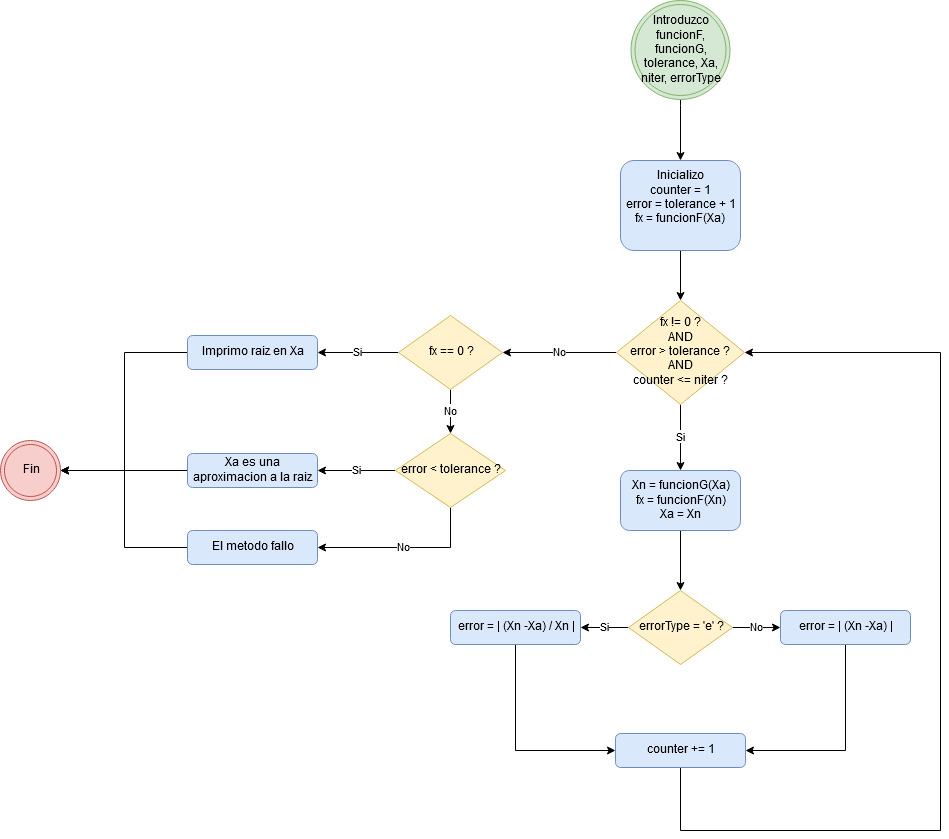
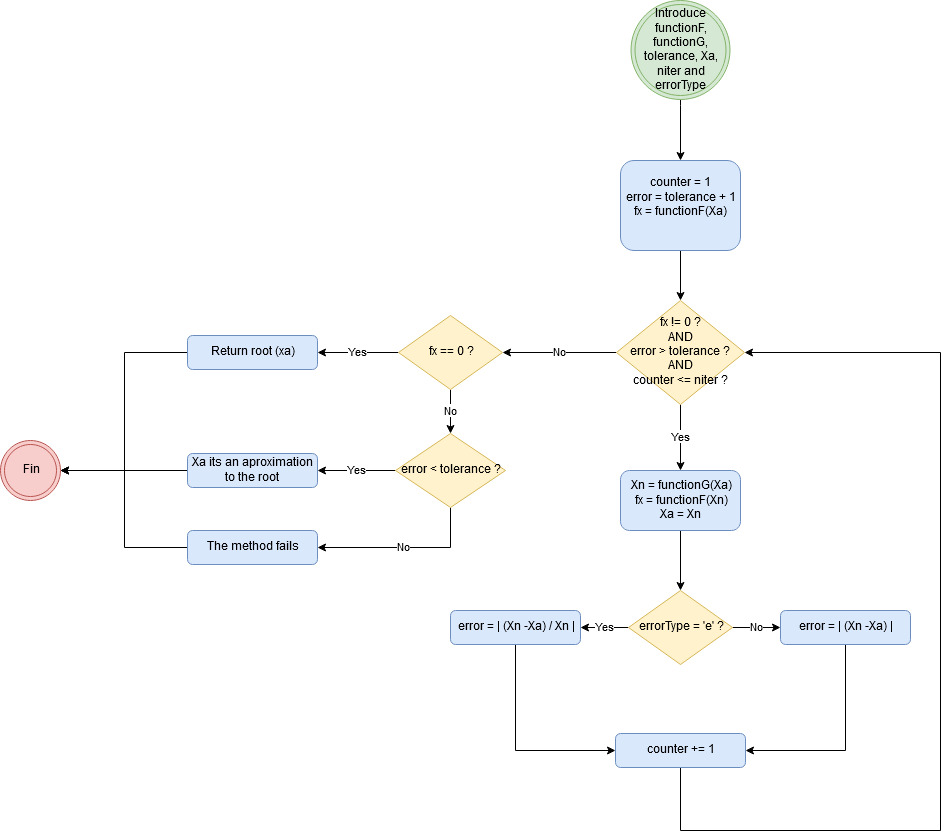
fixing methods and translating pseudocodes

diff --git a/metodos/metodosNumericos.js b/metodos/metodosNumericos.js
@@ -1,6 +1,4 @@
 const math = require('mathjs');
-// FIXME: corregir decimales
-// TODO: HACER QUE RETORNEN ALGUNA MIERDA!!!!
 // ============================================== METODOS CERRADOS ==============================================//
 
 let incrementalSearch = (funcion, initial_x, delta_x, iterations_n) => {
@@ -12,7 +10,7 @@ let incrementalSearch = (funcion, initial_x, delta_x, iterations_n) => {
   };
   let fx0 = code2.evaluate(scope);
 
-  if (fx0 === 0) console.log(`Raiz en ${scope.x}`);
+  if (fx0 === 0) console.log(`Root: ${scope.x}`);
   else {
     let intervals = [];
     var interval;
@@ -22,14 +20,19 @@ let incrementalSearch = (funcion, initial_x, delta_x, iterations_n) => {
       scope.x += delta_x;
       fx1 = code2.evaluate(scope);
       if (fx0 * fx1 < 0) {
-        console.log(`Raiz entre ${scope.x - delta_x} y ${scope.x}`);
+        console.log(`Interval: [${scope.x - delta_x}, ${scope.x}]`);
         interval = {
           a: [scope.x - delta_x, fx0],
           b: [scope.x, fx1]
         };
         intervals.push(interval);
-      } else if (fx0 === 0) console.log(`Raiz en ${scope.x - delta_x}`);
-      else if (fx1 === 0) console.log(`Raiz en ${scope.x}`);
+      } else if (fx0 === 0) {
+        console.log(`Root: ${scope.x - delta_x}`);
+        return scope.x - delta_x;
+      } else if (fx1 === 0) {
+        console.log(`Root: ${scope.x}`);
+        return scope.x;
+      }
       fx0 = fx1;
       counter++;
     }
@@ -37,14 +40,7 @@ let incrementalSearch = (funcion, initial_x, delta_x, iterations_n) => {
   }
 };
 
-let bisection = (
-  funcion,
-  xInferior,
-  xSuperior,
-  tolerance,
-  iterations_n,
-  tipoError
-) => {
+let bisection = (funcion, xInferior, xSuperior, tolerance, iterations_n) => {
   const code2 = math.parse(funcion).compile();
   let scope = {
     x: xInferior
@@ -52,45 +48,52 @@ let bisection = (
   let fxi = code2.evaluate(scope);
   scope.x = xSuperior;
   let fxs = code2.evaluate(scope);
-  if (fxi === 0) console.log(`Raiz en ${xInferior}`);
-  else if (fxs === 0) console.log(`Raiz en ${xSuperior}`);
-  else if (fxs * fxi < 0) {
+  if (fxi === 0) {
+    console.log(`Root: ${xInferior}`);
+    return xInferior;
+  } else if (fxs === 0) {
+    console.log(`Root: ${xSuperior}`);
+    return xSuperior;
+  } else if (fxs * fxi < 0) {
     let xMiddle = (xSuperior + xInferior) / 2;
-    let xMiddleAux = xMiddle;
-    var fxm;
+    scope.x = xMiddle;
+    let fxm = code2.evaluate(scope);
     let counter = 1;
     let error = tolerance + 1;
-    while (error > tolerance && counter <= iterations_n) {
-      xMiddle = (xSuperior + xInferior) / 2;
-      tipoError == 'e'
-        ? (error = math.abs((xMiddle - xMiddleAux) / xMiddle))
-        : (error = math.abs(xMiddle - xMiddleAux));
-      xMiddleAux = xMiddleAux;
-      scope.x = xMiddle;
-      fxm = code2.evaluate(scope);
-      console.log(counter, xInferior, xSuperior, xMiddle, fxm, error);
-      if (fxm === 0) console.log(`Raiz en ${xMiddle}`);
-      else if (fxi * fxm < 0) {
+    console.log(1, xInferior, xSuperior, xMiddle, fxm, 0);
+    while (error > tolerance && counter <= iterations_n && fxm != 0) {
+      if (fxi * fxm < 0) {
         xSuperior = xMiddle;
         fxs = fxm;
       } else {
         xInferior = xMiddle;
         fxi = fxm;
       }
+      let Xaux = xMiddle;
+      xMiddle = (xSuperior + xInferior) / 2;
+      scope.x = xMiddle;
+      fxm = code2.evaluate(scope);
+      error = math.abs(xMiddle - Xaux);
       counter += 1;
+      console.log(counter, xInferior, xSuperior, xMiddle, fxm, error);
     }
-    return xMiddle;
+
+    if (fxm == 0) {
+      console.log('Root:', xMiddle);
+      return xMiddle;
+    } else if (error < tolerance) {
+      console.log(
+        `${xMiddle} is an aproximation with tolerance = ${tolerance}`
+      );
+      return xMiddle;
+    } else {
+      console.log('Fail in', iterations_n, 'iterations');
+      return false;
+    }
   }
 };
 
-let fakeRule = (
-  funcion,
-  xInferior,
-  xSuperior,
-  tolerance,
-  iterations_n,
-  tipoError
-) => {
+let fakeRule = (funcion, xInferior, xSuperior, tolerance, iterations_n) => {
   const code2 = math.parse(funcion).compile();
   let scope = {
     x: xInferior
@@ -98,34 +101,48 @@ let fakeRule = (
   let fxi = code2.evaluate(scope);
   scope.x = xSuperior;
   let fxs = code2.evaluate(scope);
-  if (fxi === 0) console.log(`Raiz en ${xInferior}`);
-  else if (fxs === 0) console.log(`Raiz en ${xSuperior}`);
-  else if (fxs * fxi < 0) {
+  if (fxi === 0) {
+    console.log(`Root: ${xInferior}`);
+    return xInferior;
+  } else if (fxs === 0) {
+    console.log(`Root: ${xSuperior}`);
+    return xSuperior;
+  } else if (fxs * fxi < 0) {
     let xMiddle = xInferior - (fxi * (xSuperior - xInferior)) / (fxs - fxi);
-    let xMiddleAux = xMiddle;
-    var fxm;
+    scope.x = xMiddle;
+    let fxm = code2.evaluate(scope);
     let counter = 1;
     let error = tolerance + 1;
-    while (error > tolerance && counter <= iterations_n) {
-      xMiddle = xInferior - (fxi * (xSuperior - xInferior)) / (fxs - fxi);
-      tipoError == 'e'
-        ? (error = math.abs((xMiddle - xMiddleAux) / xMiddle))
-        : (error = math.abs(xMiddle - xMiddleAux));
-      xMiddleAux = xMiddleAux;
-      scope.x = xMiddle;
-      fxm = code2.evaluate(scope);
-      console.log(counter, xInferior, xSuperior, xMiddle, fxm, error);
-      if (fxm === 0) console.log(`Raiz en ${xMiddle}`);
-      else if (fxi * fxm < 0) {
+    console.log(1, xInferior, xSuperior, xMiddle, fxm, 0);
+    while (error > tolerance && counter <= iterations_n && fxm != 0) {
+      if (fxi * fxm < 0) {
         xSuperior = xMiddle;
         fxs = fxm;
       } else {
         xInferior = xMiddle;
         fxi = fxm;
       }
+      let Xaux = xMiddle;
+      xMiddle = xInferior - (fxi * (xSuperior - xInferior)) / (fxs - fxi);
+      scope.x = xMiddle;
+      fxm = code2.evaluate(scope);
+      error = math.abs(xMiddle - Xaux);
       counter += 1;
+      console.log(counter, xInferior, xSuperior, xMiddle, fxm, error);
     }
-    return xMiddle;
+
+    if (fxm == 0) {
+      console.log('Root:', xMiddle);
+      return xMiddle;
+    } else if (error < tolerance) {
+      console.log(
+        `${xMiddle} is an aproximation with tolerance = ${tolerance}`
+      );
+      return xMiddle;
+    } else {
+      console.log('Fail in', iterations_n, 'iterations');
+      return false;
+    }
   }
 };
 
@@ -154,14 +171,18 @@ let fixedPoint = (funcionF, funcionG, tolerance, Xa, niter, tipoError) => {
     console.log(counter, Xn, fx, error);
     counter += 1;
   }
-  if (fx == 0) console.log(`Raiz en ${Xa}`);
-  else if (error < tolerance)
-    console.log(`${Xa} es aproximacion con tolerancia = ${tolerance}`);
-  else console.log(`El metodo fracaso en ${niter} iteraciones`);
-  return Xa;
+  if (fx == 0) {
+    console.log(`Root: ${Xa}`);
+    return Xa;
+  } else if (error < tolerance) {
+    console.log(`${Xa} is an aproximation with tolerance = ${tolerance}`);
+    return Xa;
+  } else {
+    console.log('Fail in', niter, 'iterations');
+    return false;
+  }
 };
 
-// TODO: imprimir tabla newton
 let newton = (funcionF, funciondF, tolerance, Xo, niter, tipoError) => {
   const ff = math.parse(funcionF).compile();
   const df = math.parse(funciondF).compile();
@@ -173,7 +194,7 @@ let newton = (funcionF, funciondF, tolerance, Xo, niter, tipoError) => {
   let counter = 1;
   let error = tolerance + 1;
   var x1;
-  // console.log(0, Xa, fx, 0);
+  console.log(0, Xo, fx, 0);
   while (fx != 0 && error > tolerance && counter <= niter && dfx != 0) {
     x1 = Xo - fx / dfx;
     scope.x = x1;
@@ -183,25 +204,31 @@ let newton = (funcionF, funciondF, tolerance, Xo, niter, tipoError) => {
       ? (error = math.abs((x1 - Xo) / x1))
       : (error = math.abs(x1 - Xo));
     Xo = x1;
-    // console.log(counter, Xn, fx, error);
+    console.log(counter, Xo, fx, error);
     counter += 1;
   }
-  if (fx === 0) console.log(`Raiz en ${Xo}`);
-  else if (error < tolerance)
-    console.log(`${x1} es aproximacion con tolerancia = ${tolerance}`);
-  else if (dfx === 0) console.log(`${x1} es una posible raiz multiple`);
-  else console.log(`El metodo fracaso en ${niter} iteraciones`);
-  // return x1;
+  if (fx === 0) {
+    console.log(`Root: ${Xo}`);
+    return Xo;
+  } else if (error < tolerance) {
+    console.log(`${x1} is an aproximation with tolerance = ${tolerance}`);
+    return x1;
+  } else if (dfx === 0) {
+    console.log(`${x1} its a possible multiple root`);
+    return x1;
+  } else {
+    console.log('Fail in', niter, 'iterations');
+    return false;
+  }
 };
 
-// TODO: imprimir tabla secante
 let secante = (funcionF, tolerance, Xo, x1, niter, tipoError) => {
   const ff = math.parse(funcionF).compile();
   let scope = {
     x: Xo
   };
   let fx0 = ff.evaluate(scope);
-  if (fx0 === 0) console.log(`Raiz en ${Xo}`);
+  if (fx0 === 0) console.log(`Root: ${Xo}`);
   else {
     scope.x = x1;
     let fx1 = ff.evaluate(scope);
@@ -209,7 +236,7 @@ let secante = (funcionF, tolerance, Xo, x1, niter, tipoError) => {
     let error = tolerance + 1;
     let den = fx1 - fx0;
     var x2;
-    // console.log(0, Xo, fx0, 0);
+    console.log(0, Xo, fx0, 0);
     while (fx1 != 0 && error > tolerance && counter <= niter && den != 0) {
       x2 = x1 - (fx1 * (x1 - Xo)) / den;
       tipoError == 'e'
@@ -221,14 +248,22 @@ let secante = (funcionF, tolerance, Xo, x1, niter, tipoError) => {
       scope.x = x1;
       fx1 = ff.evaluate(scope);
       den = fx1 - fx0;
-      // console.log(counter, x1, fx1, error);
+      console.log(counter, Xo, fx0, error);
       counter += 1;
     }
-    if (fx1 === 0) console.log(`Raiz en ${x1}`);
-    else if (error < tolerance)
-      console.log(`${x1} es aproximacion con tolerancia = ${tolerance}`);
-    else if (den === 0) console.log(`Hay una posible raiz multiple`);
-    else console.log(`El metodo fracaso en ${niter} iteraciones`);
+    if (fx1 === 0) {
+      console.log(`Root: ${x1}`);
+      return x1;
+    } else if (error < tolerance) {
+      console.log(`${x1} is an aproximation with tolerance = ${tolerance}`);
+      return x1;
+    } else if (den === 0) {
+      console.log(`Possible multiple root`);
+      return false;
+    } else {
+      console.log('Fail in', niter, 'iterations');
+      return false;
+    }
   }
 };
 
@@ -268,33 +303,36 @@ let multipleRoots = (
     // console.log(counter, Xn, fx, error);
     counter += 1;
   }
-  if (fx === 0) console.log(`Raiz en ${Xo}`);
-  else if (error < tolerance)
-    console.log(`${x1} es aproximacion con tolerancia = ${tolerance}`);
-  else if (dfx === 0) console.log(`${x1} es una posible raiz multiple`);
-  else console.log(`El metodo fracaso en ${niter} iteraciones`);
-  // return x1;
+  if (fx === 0) {
+    console.log(`Root: ${Xo}`);
+    return Xo;
+  } else if (error < tolerance) {
+    console.log(`${x1} is an aproximation with tolerance = ${tolerance}`);
+    return x1;
+  } else if (dfx === 0) {
+    console.log(`${x1} its a possible multiple root`);
+    return x1;
+  } else {
+    console.log('Fail in', niter, 'iterations');
+    return false;
+  }
 };
 
 // Cerrados
 // const funcion = 'e^(3x - 12) + x*cos(3x) - x^2 + 4';
 // incrementalSearch(funcion, -10, 1, 20);
-// bisection(funcion, 2, 3, -1, 11, 'e');
-// fakeRule(funcion, 2, 3, -1, 11, 'e');
+// bisection(funcion, 2, 3, 0.0005, 11);
+// fakeRule(funcion, 2, 3, 0.0005, 11);
 
 // Abiertos
 // const funcionf = 'x*e^x - x^2 - 5x - 3';
 // const funciong = '(x*e^x - x^2 - 3)/5';
 // const funciondf = '-2x + e^x * (x + 1) - 5';
 // const funcionddf = '-2 + e^x (2 + x)';
-// const tolerance = math
-//   .parse('5*10^-5')
-//   .compile()
-//   .evaluate();
-// fixedPoint(funcionf, funciong, tolerance, -0.5, 10, 'e');
-// newton(funcionf, funciondf, tolerance, -0.5, 10, 'e');
-// secante(funcionf, tolerance, -0.5, 1, 10, 'e');
-// multipleRoots(funcionf, funciondf, funcionddf, tolerance, -0.5, 10, 'e');
+// fixedPoint(funcionf, funciong, 0.00005, -0.5, 10, 'e');
+// newton(funcionf, funciondf, 0.00005, -0.5, 10, 'e');
+// secante(funcionf, 0.00005, -0.5, 1, 10, 'e');
+// multipleRoots(funcionf, funciondf, funcionddf, 0.00005, -0.5, 10, 'e');
 
 module.exports = {
   incrementalSearch,
